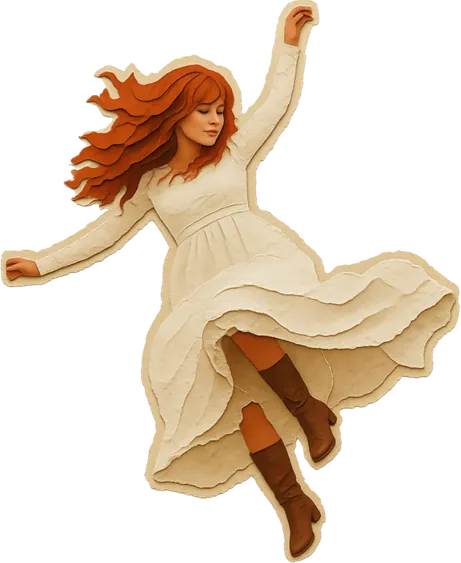
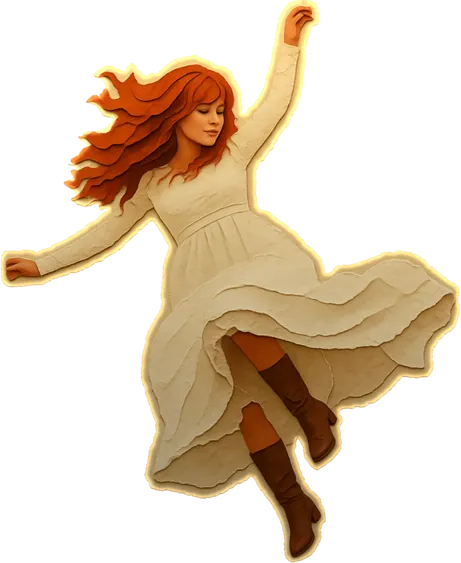
Los personajes dejan de parecer pegatinas
El problema no era la compresion (el alfa se conservaba intacto y el error
de color era de 2-5 sobre 255): era que los recortes tienen luz PLANA y el
fondo tiene luz dorada direccional, asi que flotaban encima en vez de estar
dentro de la escena.

- se hornea en cada recorte lo que el entorno le haria: luz calida cayendo
  desde arriba, sombra abajo, y sobre todo un filo dorado en el borde
  (light wrap), que es lo que de verdad quita el efecto pegatina. Un filter
  CSS global no puede hacer esto: no sabe donde estan los bordes.
- el filtro CSS se aligera, porque su trabajo ya esta hecho en el pixel
- el conejo que cae se escalaba por el marco entero, pero su cuerpo solo
  ocupa el 62% de la altura: a 32vh el conejo real medía 20vh y salia
  minusculo. Sube a 46vh -> 28vh reales
- originales guardados en _orig/ (fuera del repo) por si hay que rehacerlo

diff --git a/index.html b/index.html
@@ -7,10 +7,10 @@
 <title>Inktensa Daff — Sigue al Conejo Blanco</title>
 <meta name="description" content="Nadie encuentra este claro por casualidad. Sigue al Conejo Blanco.">
 
-<link rel="preload" as="image" href="assets/rabbit-hole-2x.webp?v=6" media="(min-width:900px)">
-<link rel="preload" as="image" href="assets/rabbit-hole-sm.webp?v=6" media="(min-width:431px) and (max-width:899px)">
-<link rel="preload" as="image" href="assets/rabbit-hole-xs.webp?v=6" media="(max-width:430px)">
-<link rel="preload" as="image" href="assets/plaque.webp?v=6">
+<link rel="preload" as="image" href="assets/rabbit-hole-2x.webp?v=7" media="(min-width:900px)">
+<link rel="preload" as="image" href="assets/rabbit-hole-sm.webp?v=7" media="(min-width:431px) and (max-width:899px)">
+<link rel="preload" as="image" href="assets/rabbit-hole-xs.webp?v=7" media="(max-width:430px)">
+<link rel="preload" as="image" href="assets/plaque.webp?v=7">
 <link rel="preconnect" href="https://fonts.googleapis.com">
 <link rel="preconnect" href="https://fonts.gstatic.com" crossorigin>
 <link href="https://fonts.googleapis.com/css2?family=Cormorant+Garamond:ital,wght@0,300;0,400;0,500;1,300;1,400&family=Cinzel:wght@400;500&display=swap" rel="stylesheet">
@@ -157,7 +157,7 @@ html{ scrollbar-width:thin; scrollbar-color:#c9922e rgba(12,9,4,.55); }
    El salto de posición a 12 pasos es lo que lo hace película y no ruido pegado. */
 .grano{
   position:fixed;inset:-120px;z-index:56;pointer-events:none;
-  background:url("assets/grain35.webp?v=6") repeat;
+  background:url("assets/grain35.webp?v=7") repeat;
   background-size:256px 256px;
   opacity:.19;
   mix-blend-mode:overlay;
@@ -225,17 +225,20 @@ html{ scrollbar-width:thin; scrollbar-color:#c9922e rgba(12,9,4,.55); }
 @media (prefers-reduced-motion:reduce){ .film{animation:none} }
 .fig{
   position:absolute;display:block;
-  filter:sepia(.22) saturate(1.06) contrast(.95) brightness(1.08)
-         drop-shadow(0 18px 30px rgba(0,0,0,.45))
-         drop-shadow(0 0 26px rgba(255,244,214,.42))
-         drop-shadow(0 0 70px rgba(226,190,110,.36));
+  /* La luz del tunel y el filo dorado van HORNEADOS en el propio PNG: un
+     filtro global no puede simular luz direccional sobre un dibujo plano,
+     y era eso lo que hacia que parecieran pegatinas. Aqui solo queda la
+     sombra que los separa del fondo. */
+  filter:sepia(.10) saturate(1.04) contrast(1.02)
+         drop-shadow(0 16px 26px rgba(0,0,0,.5))
+         drop-shadow(0 0 40px rgba(226,190,110,.30));
 }
 .fig>img{width:auto;height:100%}
 
 /* the Rabbit crossing the clearing */
 #r1{top:46%;left:0;height:60.5vh;transform-origin:50% 50%;opacity:0}
 /* the Rabbit falling ahead of you */
-#r2{left:62%;top:0;height:32vh;opacity:0}   /* driven by transform, never by `top` */
+#r2{left:62%;top:0;height:46vh;opacity:0}   /* su cuerpo es el 62% del marco: 46vh -> 28vh reales */   /* driven by transform, never by `top` */
 #r2>img{filter:blur(.9px)}
 
 /* Alice, falling */
@@ -286,7 +289,7 @@ html{ scrollbar-width:thin; scrollbar-color:#c9922e rgba(12,9,4,.55); }
   margin:calc(var(--ds) * -1.70) 0 0 calc(var(--ds) * -0.86);
   transform-origin:86% 170%;
   /* la cara es la ilustración: nada de degradados CSS imitando metal */
-  background:url("assets/watch-dial.webp?v=6") center/contain no-repeat;
+  background:url("assets/watch-dial.webp?v=7") center/contain no-repeat;
   border:0;
   filter:drop-shadow(0 22px 46px rgba(0,0,0,.62)) drop-shadow(0 0 74px rgba(226,190,110,.3));
   transform:scale(var(--dial));
@@ -752,7 +755,7 @@ input,textarea,select{ cursor:auto !important }
 
 <!-- ═══ THE MENU, ALWAYS ON SCREEN ═══ -->
 <button class="watch-btn" id="watchBtn" aria-label="Abrir el menú" aria-expanded="false" aria-controls="menuOv">
-  <img src="assets/watch-icon.webp?v=6" alt="" aria-hidden="true">
+  <img src="assets/watch-icon.webp?v=7" alt="" aria-hidden="true">
   <i class="watch-btn__hand"></i>
   <span class="watch-btn__label">Menú</span>
 </button>
@@ -776,9 +779,9 @@ input,textarea,select{ cursor:auto !important }
 <div class="stage" id="stage">
   <div class="plate-inner" id="plate">
     <picture>
-      <source media="(min-width:900px)" srcset="assets/rabbit-hole-2x.webp?v=6">
-      <source media="(min-width:431px)" srcset="assets/rabbit-hole-sm.webp?v=6">
-      <img class="plate" id="plateImg" src="assets/rabbit-hole-xs.webp?v=6"
+      <source media="(min-width:900px)" srcset="assets/rabbit-hole-2x.webp?v=7">
+      <source media="(min-width:431px)" srcset="assets/rabbit-hole-sm.webp?v=7">
+      <img class="plate" id="plateImg" src="assets/rabbit-hole-xs.webp?v=7"
            alt="Un claro dorado en el bosque que se abre a una madriguera profunda.">
     </picture>
 
@@ -820,7 +823,7 @@ input,textarea,select{ cursor:auto !important }
 
 <div class="saludo" id="saludo">
   <button class="placa" id="placa" aria-label="Sigue al Conejo Blanco — bajar a la madriguera">
-    <img src="assets/plaque.webp?v=6" alt="" aria-hidden="true">
+    <img src="assets/plaque.webp?v=7" alt="" aria-hidden="true">
   </button>
 </div>
 
@@ -1116,7 +1119,7 @@ var IMG_RATIO = 941/1672;          /* 0.5628 — width / height */
    Debajo de 900px se sirve la variante a media resolucion (-70% de peso). */
 (function(){
   var ligero = innerWidth < 900 || (matchMedia('(pointer:coarse)').matches && innerWidth < 1100);
-  var suf = (ligero ? '-m' : '') + '.webp?v=6';
+  var suf = (ligero ? '-m' : '') + '.webp?v=7';
   function cargar(){
     var l=document.querySelectorAll('img[data-base]');
     for(var i=0;i<l.length;i++){
